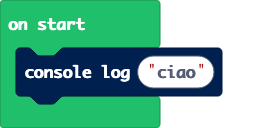
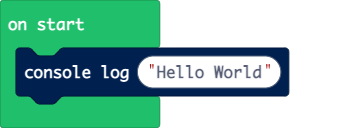
Update main.blocks, main.ts

diff --git a/main.ts b/main.ts
@@ -1,1 +1,1 @@
-console.log("ciao")
+console.log("Hello World")
